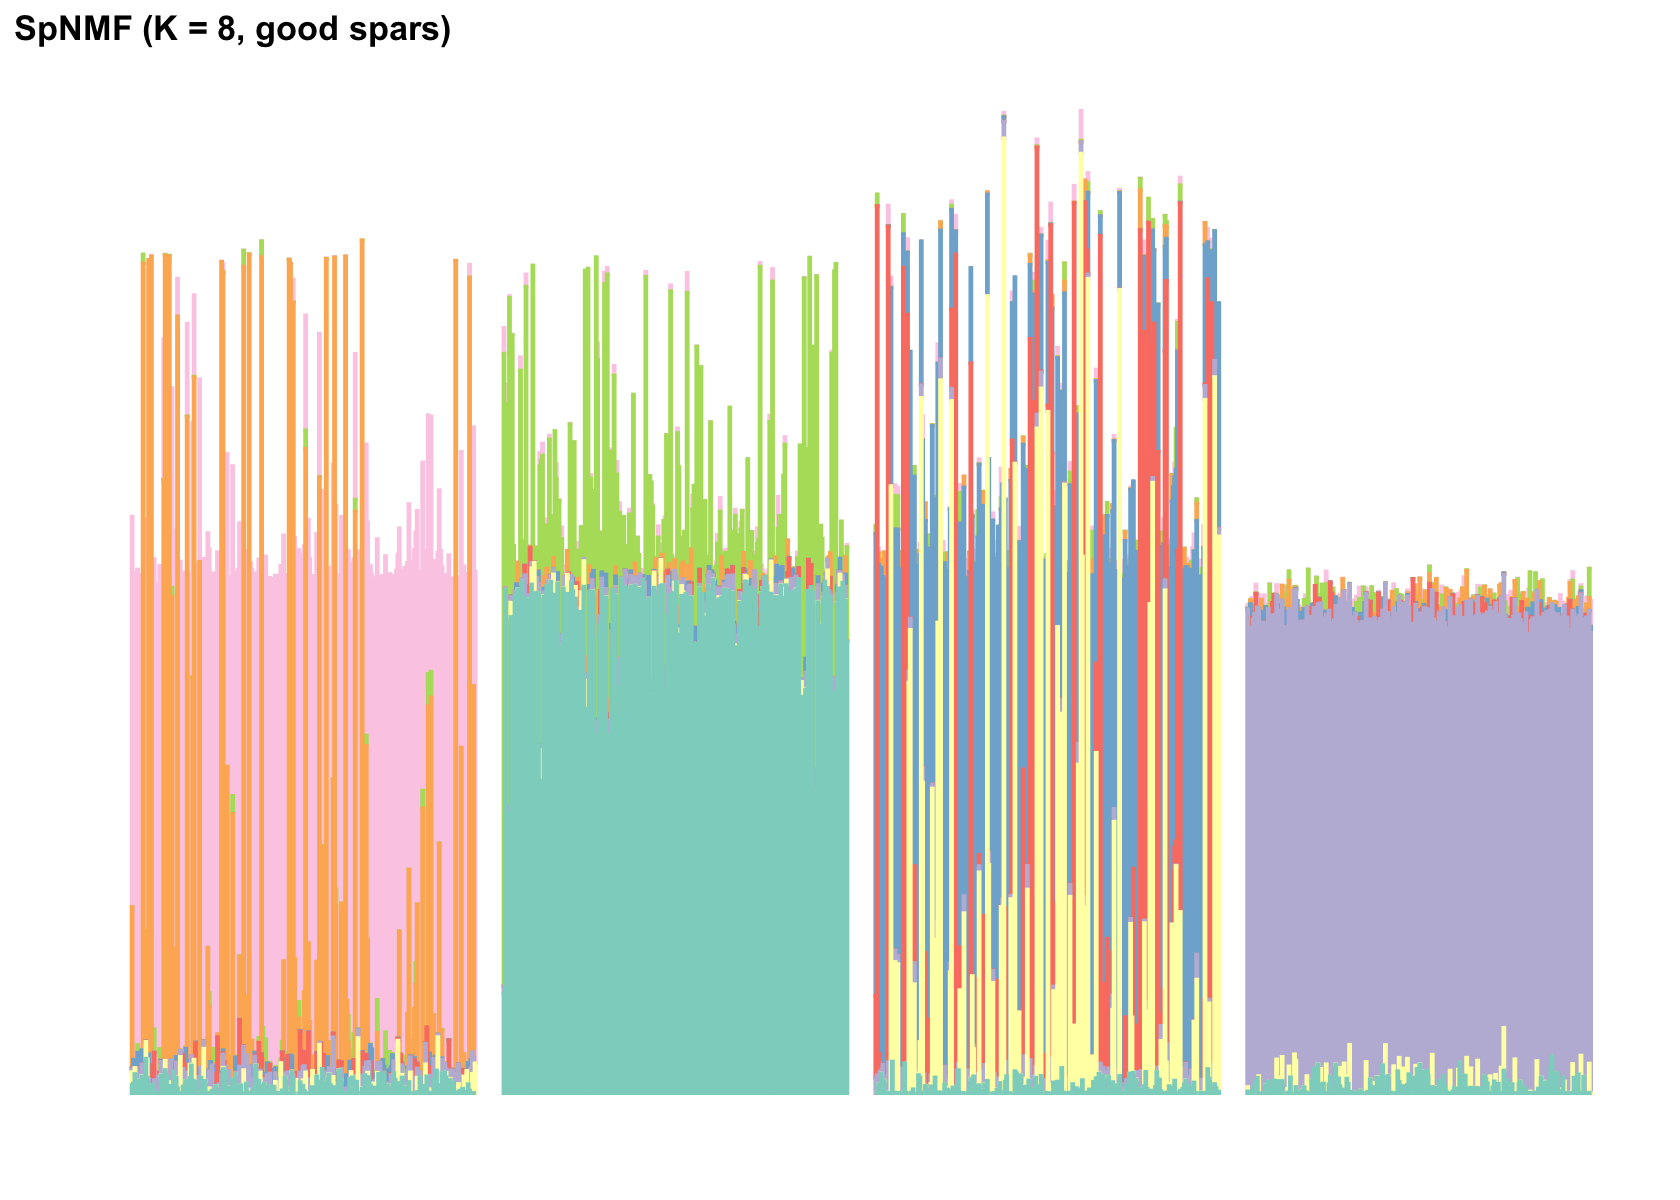
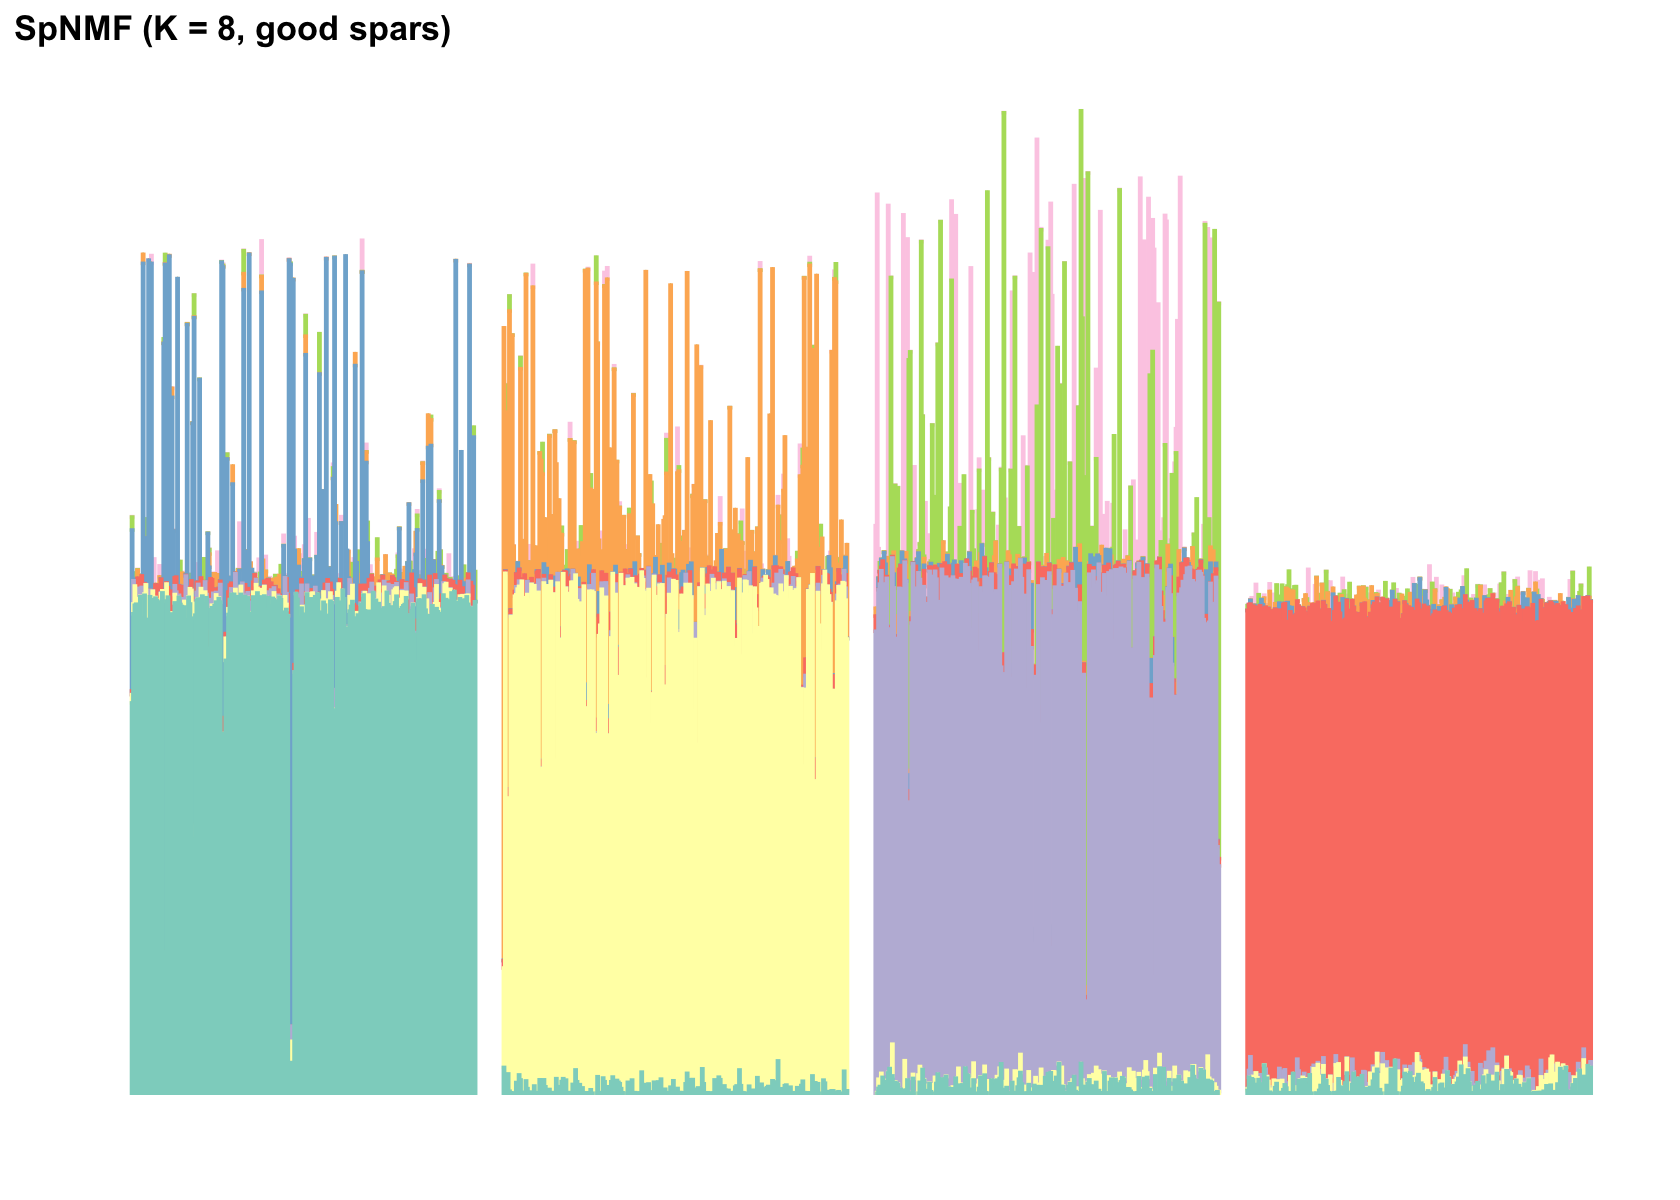
Build site.

diff --git a/docs/simdata5.html b/docs/simdata5.html
@@ -431,15 +431,15 @@ project makes it easier to run your code on other machines.</p>
 <div class="panel panel-default">
 <div class="panel-heading">
 <p class="panel-title">
-<a data-toggle="collapse" data-parent="#workflowr-checks" href="#strongRepositoryversionstrongahrefhttpsgithubcomwillwerscheidebnmfpapertreee61a65929893bed7838c00e99701e11f9c49994btargetblanke61a659a">
+<a data-toggle="collapse" data-parent="#workflowr-checks" href="#strongRepositoryversionstrongahrefhttpsgithubcomwillwerscheidebnmfpapertree6236155e146005b0da8132c8fba23248a8e6f9batargetblank6236155a">
 <span class="glyphicon glyphicon-ok text-success"
 aria-hidden="true"></span> <strong>Repository version:</strong>
-<a href="https://github.com/willwerscheid/ebnmf-paper/tree/e61a65929893bed7838c00e99701e11f9c49994b" target="_blank">e61a659</a>
+<a href="https://github.com/willwerscheid/ebnmf-paper/tree/6236155e146005b0da8132c8fba23248a8e6f9ba" target="_blank">6236155</a>
 </a>
 </p>
 </div>
 <div
[2 lines of base64/hex data omitted]
 class="panel-collapse collapse">
 <div class="panel-body">
 <p>
@@ -449,7 +449,7 @@ reproducibility.
 </p>
 <p>
 The results in this page were generated with repository version
-<a href="https://github.com/willwerscheid/ebnmf-paper/tree/e61a65929893bed7838c00e99701e11f9c49994b" target="_blank">e61a659</a>.
+<a href="https://github.com/willwerscheid/ebnmf-paper/tree/6236155e146005b0da8132c8fba23248a8e6f9ba" target="_blank">6236155</a>.
 See the <em>Past versions</em> tab to see a history of the changes made
 to the R Markdown and HTML files.
 </p>
@@ -539,6 +539,40 @@ Message
 </tr>
 </thead>
 <tbody>
+<tr>
+<td>
+Rmd
+</td>
+<td>
+<a href="https://github.com/willwerscheid/ebnmf-paper/blob/6236155e146005b0da8132c8fba23248a8e6f9ba/analysis/simdata5.Rmd" target="_blank">6236155</a>
+</td>
+<td>
+Jason Willwerscheid
+</td>
+<td>
+2025-08-01
+</td>
+<td>
+workflowr::wflow_publish("analysis/simdata5.Rmd")
+</td>
+</tr>
+<tr>
+<td>
+html
+</td>
+<td>
+<a href="https://rawcdn.githack.com/willwerscheid/ebnmf-paper/7030bb88e0e1cf04fd2a678f7106aa7a0360c60e/docs/simdata5.html" target="_blank">7030bb8</a>
+</td>
+<td>
+Jason Willwerscheid
+</td>
+<td>
+2025-08-01
+</td>
+<td>
+Build site.
+</td>
+</tr>
 <tr>
 <td>
 Rmd
@@ -790,6 +824,17 @@ Date
 <tbody>
 <tr>
 <td>
+<a href="https://github.com/willwerscheid/ebnmf-paper/blob/7030bb88e0e1cf04fd2a678f7106aa7a0360c60e/docs/figure/simdata5.Rmd/unnamed-chunk-2-1.png" target="_blank">7030bb8</a>
+</td>
+<td>
+Jason Willwerscheid
+</td>
+<td>
+2025-08-01
+</td>
+</tr>
+<tr>
+<td>
 <a href="https://github.com/willwerscheid/ebnmf-paper/blob/df0a1d7220e9e813e5a037ca6f756af61428b22f/docs/figure/simdata5.Rmd/unnamed-chunk-2-1.png" target="_blank">df0a1d7</a>
 </td>
 <td>
@@ -833,6 +878,17 @@ Date
 <tbody>
 <tr>
 <td>
+<a href="https://github.com/willwerscheid/ebnmf-paper/blob/7030bb88e0e1cf04fd2a678f7106aa7a0360c60e/docs/figure/simdata5.Rmd/unnamed-chunk-3-1.png" target="_blank">7030bb8</a>
+</td>
+<td>
+Jason Willwerscheid
+</td>
+<td>
+2025-08-01
+</td>
+</tr>
+<tr>
+<td>
 <a href="https://github.com/willwerscheid/ebnmf-paper/blob/df0a1d7220e9e813e5a037ca6f756af61428b22f/docs/figure/simdata5.Rmd/unnamed-chunk-3-1.png" target="_blank">df0a1d7</a>
 </td>
 <td>
@@ -852,7 +908,7 @@ Jason Willwerscheid
   flash_factors_init(list(nmf_res$W, t(nmf_res$H)), ebnm_fn = ebnm_point_exponential) |&gt;
   flash_backfit(maxiter = 5000) |&gt;
   flash_nullcheck()
-allplots[[4]] &lt;- plot_fl(fl_b, c(4, 7, 3, 6, 1, 2, 5), &quot;EBNMF (K = 8 NMF init)&quot;) 
+allplots[[4]] &lt;- plot_fl(fl_b, c(4, 7, 3, 6, 1, 2, 5), &quot;EBNMF, NMF init (K = 8)&quot;) 
 allplots[[4]]</code></pre>
 <p><img src="figure/simdata5.Rmd/unnamed-chunk-4-1.png" width="840" style="display: block; margin: auto;" /></p>
 <p>
@@ -877,6 +933,17 @@ Date
 </tr>
 </thead>
 <tbody>
+<tr>
+<td>
+<a href="https://github.com/willwerscheid/ebnmf-paper/blob/7030bb88e0e1cf04fd2a678f7106aa7a0360c60e/docs/figure/simdata5.Rmd/unnamed-chunk-4-1.png" target="_blank">7030bb8</a>
+</td>
+<td>
+Jason Willwerscheid
+</td>
+<td>
+2025-08-01
+</td>
+</tr>
 <tr>
 <td>
 <a href="https://github.com/willwerscheid/ebnmf-paper/blob/119580d1ae34443d9da2f8fe2bbb29ce8319d18d/docs/figure/simdata5.Rmd/unnamed-chunk-4-1.png" target="_blank">119580d</a>
@@ -949,6 +1016,17 @@ Date
 <tbody>
 <tr>
 <td>
+<a href="https://github.com/willwerscheid/ebnmf-paper/blob/7030bb88e0e1cf04fd2a678f7106aa7a0360c60e/docs/figure/simdata5.Rmd/unnamed-chunk-5-1.png" target="_blank">7030bb8</a>
+</td>
+<td>
+Jason Willwerscheid
+</td>
+<td>
+2025-08-01
+</td>
+</tr>
+<tr>
+<td>
 <a href="https://github.com/willwerscheid/ebnmf-paper/blob/df0a1d7220e9e813e5a037ca6f756af61428b22f/docs/figure/simdata5.Rmd/unnamed-chunk-5-1.png" target="_blank">df0a1d7</a>
 </td>
 <td>
@@ -998,6 +1076,17 @@ Date
 </tr>
 </thead>
 <tbody>
+<tr>
+<td>
+<a href="https://github.com/willwerscheid/ebnmf-paper/blob/7030bb88e0e1cf04fd2a678f7106aa7a0360c60e/docs/figure/simdata5.Rmd/unnamed-chunk-6-1.png" target="_blank">7030bb8</a>
+</td>
+<td>
+Jason Willwerscheid
+</td>
+<td>
+2025-08-01
+</td>
+</tr>
 <tr>
 <td>
 <a href="https://github.com/willwerscheid/ebnmf-paper/blob/df0a1d7220e9e813e5a037ca6f756af61428b22f/docs/figure/simdata5.Rmd/unnamed-chunk-6-1.png" target="_blank">df0a1d7</a>
@@ -1052,6 +1141,17 @@ Date
 </tr>
 </thead>
 <tbody>
+<tr>
+<td>
+<a href="https://github.com/willwerscheid/ebnmf-paper/blob/7030bb88e0e1cf04fd2a678f7106aa7a0360c60e/docs/figure/simdata5.Rmd/unnamed-chunk-7-1.png" target="_blank">7030bb8</a>
+</td>
+<td>
+Jason Willwerscheid
+</td>
+<td>
+2025-08-01
+</td>
+</tr>
 <tr>
 <td>
 <a href="https://github.com/willwerscheid/ebnmf-paper/blob/119580d1ae34443d9da2f8fe2bbb29ce8319d18d/docs/figure/simdata5.Rmd/unnamed-chunk-7-1.png" target="_blank">119580d</a>
@@ -1119,6 +1219,17 @@ Date
 <tbody>
 <tr>
 <td>
+<a href="https://github.com/willwerscheid/ebnmf-paper/blob/7030bb88e0e1cf04fd2a678f7106aa7a0360c60e/docs/figure/simdata5.Rmd/unnamed-chunk-8-1.png" target="_blank">7030bb8</a>
+</td>
+<td>
+Jason Willwerscheid
+</td>
+<td>
+2025-08-01
+</td>
+</tr>
+<tr>
+<td>
 <a href="https://github.com/willwerscheid/ebnmf-paper/blob/119580d1ae34443d9da2f8fe2bbb29ce8319d18d/docs/figure/simdata5.Rmd/unnamed-chunk-8-1.png" target="_blank">119580d</a>
 </td>
 <td>
@@ -1182,6 +1293,17 @@ Date
 <tbody>
 <tr>
 <td>
+<a href="https://github.com/willwerscheid/ebnmf-paper/blob/7030bb88e0e1cf04fd2a678f7106aa7a0360c60e/docs/figure/simdata5.Rmd/unnamed-chunk-9-1.png" target="_blank">7030bb8</a>
+</td>
+<td>
+Jason Willwerscheid
+</td>
+<td>
+2025-08-01
+</td>
+</tr>
+<tr>
+<td>
 <a href="https://github.com/willwerscheid/ebnmf-paper/blob/df0a1d7220e9e813e5a037ca6f756af61428b22f/docs/figure/simdata5.Rmd/unnamed-chunk-9-1.png" target="_blank">df0a1d7</a>
 </td>
 <td>
@@ -1222,6 +1344,17 @@ Date
 </tr>
 </thead>
 <tbody>
+<tr>
+<td>
+<a href="https://github.com/willwerscheid/ebnmf-paper/blob/7030bb88e0e1cf04fd2a678f7106aa7a0360c60e/docs/figure/simdata5.Rmd/unnamed-chunk-10-1.png" target="_blank">7030bb8</a>
+</td>
+<td>
+Jason Willwerscheid
+</td>
+<td>
+2025-08-01
+</td>
+</tr>
 <tr>
 <td>
 <a href="https://github.com/willwerscheid/ebnmf-paper/blob/119580d1ae34443d9da2f8fe2bbb29ce8319d18d/docs/figure/simdata5.Rmd/unnamed-chunk-10-1.png" target="_blank">119580d</a>
@@ -1277,6 +1410,17 @@ Date
 <tbody>
 <tr>
 <td>
+<a href="https://github.com/willwerscheid/ebnmf-paper/blob/7030bb88e0e1cf04fd2a678f7106aa7a0360c60e/docs/figure/simdata5.Rmd/unnamed-chunk-11-1.png" target="_blank">7030bb8</a>
+</td>
+<td>
+Jason Willwerscheid
+</td>
+<td>
+2025-08-01
+</td>
+</tr>
+<tr>
+<td>
 <a href="https://github.com/willwerscheid/ebnmf-paper/blob/119580d1ae34443d9da2f8fe2bbb29ce8319d18d/docs/figure/simdata5.Rmd/unnamed-chunk-11-1.png" target="_blank">119580d</a>
 </td>
 <td>
@@ -1292,7 +1436,7 @@ Jason Willwerscheid
 </div>
 <p>Sparse NMF (K = 8) with approximately correct sparsity setting:</p>
 <pre class="r"><code>sparse_nmf &lt;- readMat(&quot;matlab/simdata_scenario1_nmf_k=8.mat&quot;)
-allplots[[12]] &lt;- plot_nmf(sparse_nmf, c(2, 3, 8, 7, 1, 5, 4, 6), &quot;SpNMF (K = 8, good spars)&quot;)
+allplots[[12]] &lt;- plot_nmf(sparse_nmf, c(6, 2, 1, 8, 5, 4, 3, 7), &quot;SpNMF (K = 8, good spars)&quot;)
 allplots[[12]]</code></pre>
 <p><img src="figure/simdata5.Rmd/unnamed-chunk-12-1.png" width="840" style="display: block; margin: auto;" /></p>
 <p>
@@ -1319,6 +1463,17 @@ Date
 <tbody>
 <tr>
 <td>
+<a href="https://github.com/willwerscheid/ebnmf-paper/blob/7030bb88e0e1cf04fd2a678f7106aa7a0360c60e/docs/figure/simdata5.Rmd/unnamed-chunk-12-1.png" target="_blank">7030bb8</a>
+</td>
+<td>
+Jason Willwerscheid
+</td>
+<td>
+2025-08-01
+</td>
+</tr>
+<tr>
+<td>
 <a href="https://github.com/willwerscheid/ebnmf-paper/blob/119580d1ae34443d9da2f8fe2bbb29ce8319d18d/docs/figure/simdata5.Rmd/unnamed-chunk-12-1.png" target="_blank">119580d</a>
 </td>
 <td>
@@ -1336,6 +1491,43 @@ Jason Willwerscheid
 <pre class="r"><code>p &lt;- plot_grid(plotlist = allplots, nrow = 3, ncol = 4)
 p</code></pre>
 <p><img src="figure/simdata5.Rmd/unnamed-chunk-13-1.png" width="960" style="display: block; margin: auto;" /></p>
+<p>
+<button type="button" class="btn btn-default btn-xs btn-workflowr btn-workflowr-fig" data-toggle="collapse" data-target="#fig-unnamed-chunk-13-1">
+Past versions of unnamed-chunk-13-1.png
+</button>
+</p>
+<div id="fig-unnamed-chunk-13-1" class="collapse">
+<div class="table-responsive">
+<table class="table table-condensed table-hover">
+<thead>
+<tr>
+<th>
+Version
+</th>
+<th>
+Author
+</th>
+<th>
+Date
+</th>
+</tr>
+</thead>
+<tbody>
+<tr>
+<td>
+<a href="https://github.com/willwerscheid/ebnmf-paper/blob/7030bb88e0e1cf04fd2a678f7106aa7a0360c60e/docs/figure/simdata5.Rmd/unnamed-chunk-13-1.png" target="_blank">7030bb8</a>
+</td>
+<td>
+Jason Willwerscheid
+</td>
+<td>
+2025-08-01
+</td>
+</tr>
+</tbody>
+</table>
+</div>
+</div>
 <br>
 <p>
 <button type="button" class="btn btn-default btn-workflowr btn-workflowr-sessioninfo" data-toggle="collapse" data-target="#workflowr-sessioninfo" style="display: block;">
